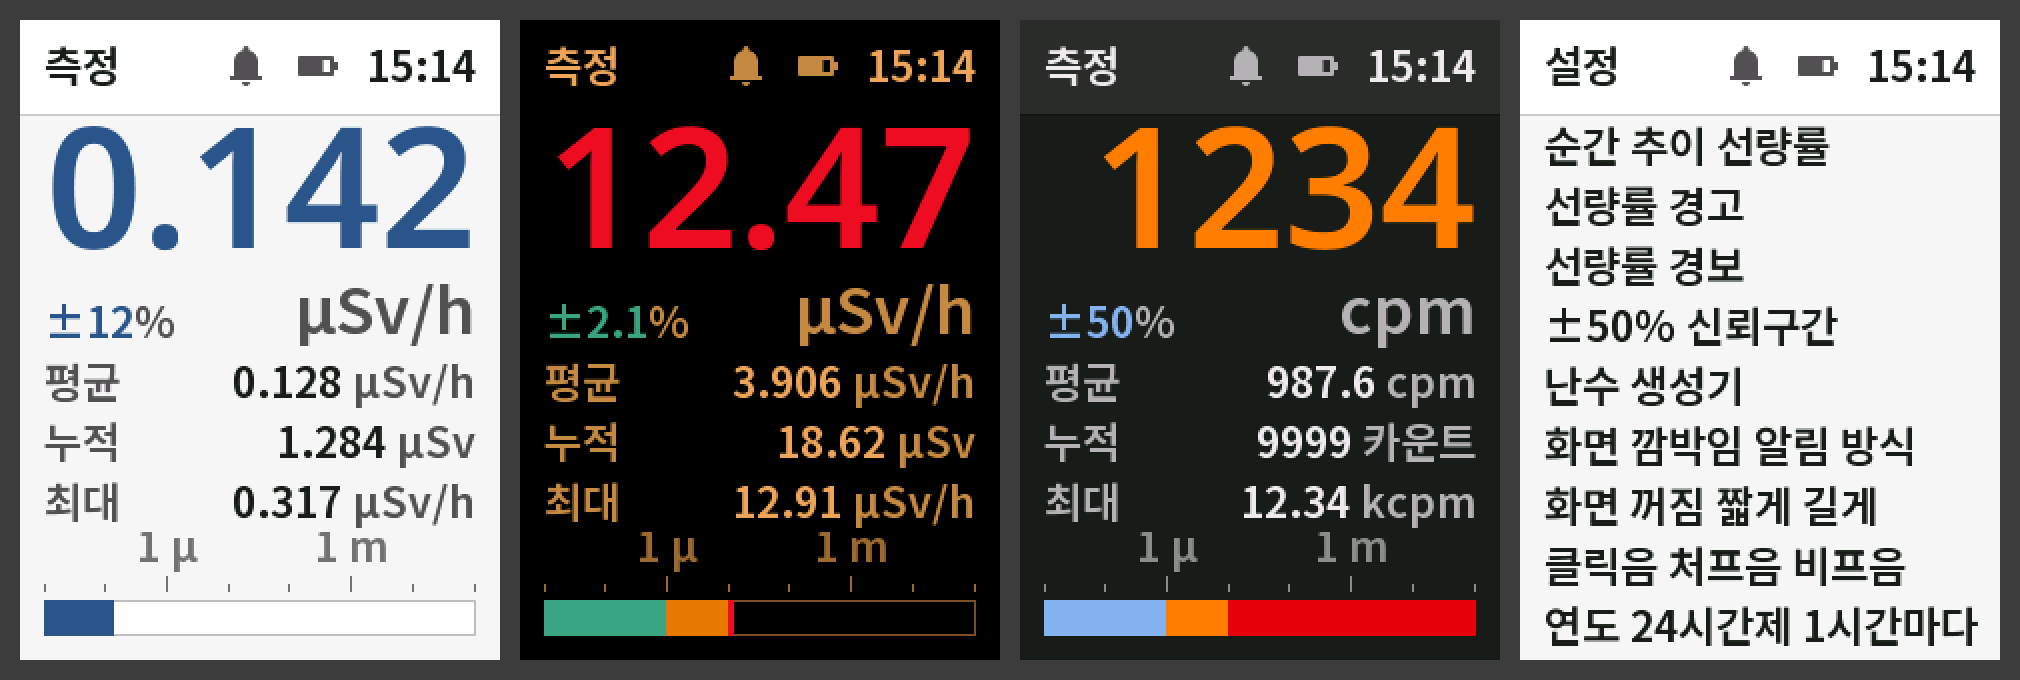
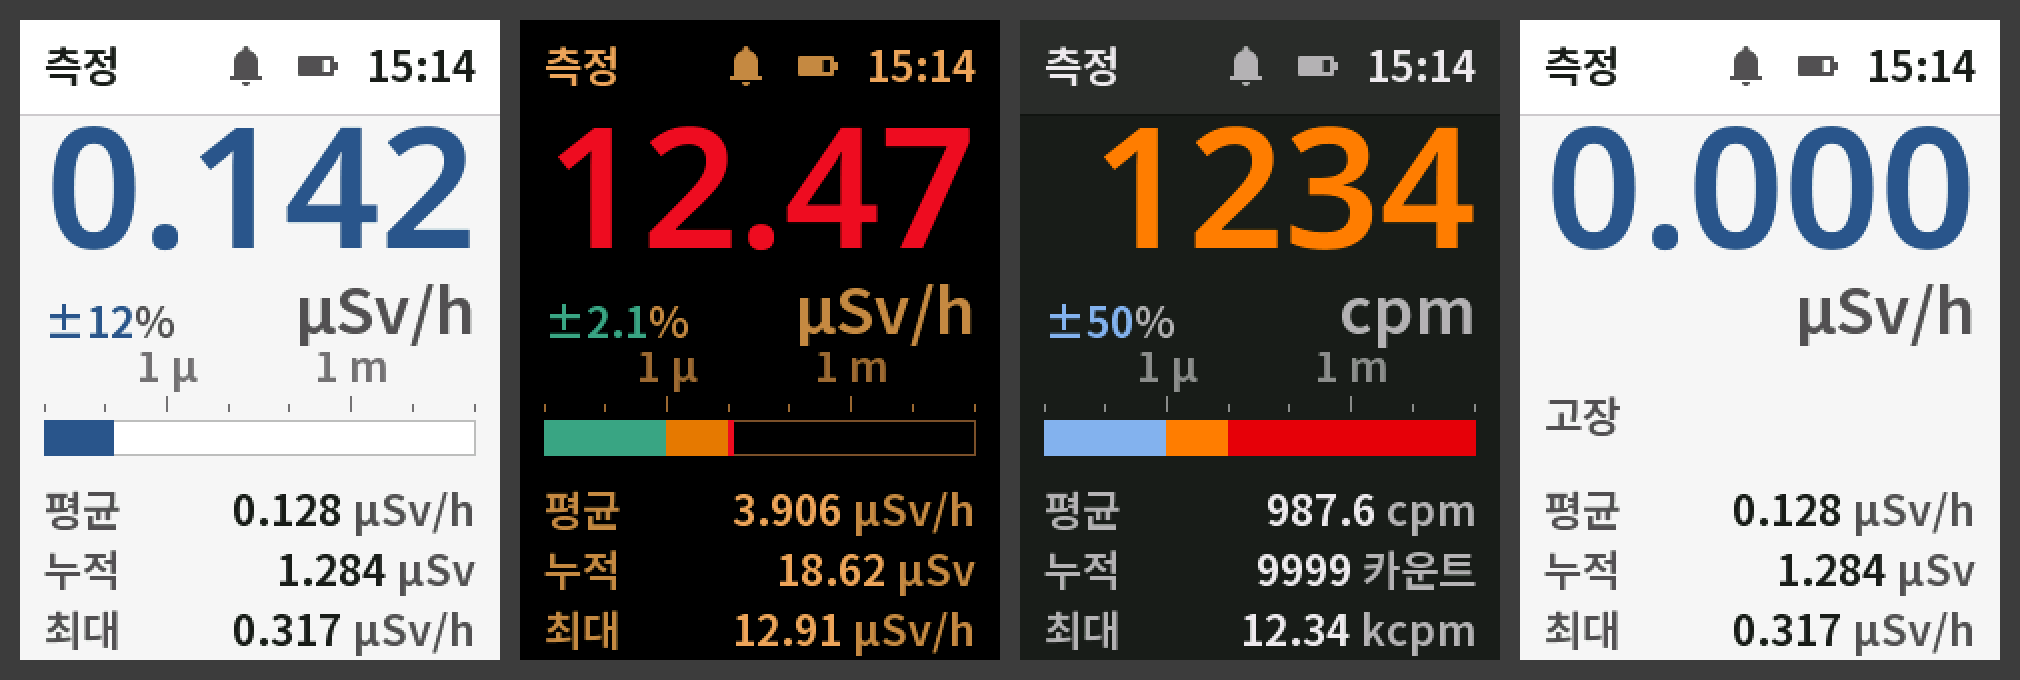
Move overview bar between unit line and info rows

Changed region(s): [[0.0, 0.1853, 0.998, 0.9574], [0.0, 0.525, 0.5926, 0.6794], [0.7485, 0.0618, 0.7797, 0.1235]]

diff --git a/platform.io/src/ui/measurements.c b/platform.io/src/ui/measurements.c
@@ -219,14 +219,12 @@ void drawMeasurementInfo(const char *keyString, const char *valueString, const c
 #define BAR_HEIGHT (CONTENT_BOTTOM - BAR_TOP)
 
 #define BAR_LABEL_LEFT BAR_LEFT
-#define BAR_LABEL_TOP BAR_TOP
 #define BAR_LABEL_WIDTH BAR_WIDTH
 #define BAR_LABEL_HEIGHT (BAR_HEIGHT - BAR_IMAGEBUFFER_HEIGHT)
 #define BAR_LABEL_OFFSETY (BAR_LABEL_HEIGHT - FONT_SMALL_LINE_HEIGHT)
 #define BAR_LABEL_CELL_HALFWIDTH ((3 * BAR_TICKS_WIDTH / BAR_DECADES) / 2)
 
 #define BAR_IMAGEBUFFER_LEFT BAR_LEFT
-#define BAR_IMAGEBUFFER_TOP (BAR_LABEL_TOP + BAR_LABEL_HEIGHT)
 #define BAR_IMAGEBUFFER_WIDTH BAR_WIDTH
 #define BAR_IMAGEBUFFER_HEIGHT (BAR_TICKS_HEIGHT + TICKS_SPACING + BAR_FRAME_HEIGHT + MEASUREMENT_PADDING_BOTTOM)
 
@@ -342,7 +340,7 @@ static int16_t getMeasurementBarX(float value, float offset)
     return BAR_FRAME_LEFT + x;
 }
 
-void drawMeasurementBar(float value, int32_t minExponent, float warningValue, float alarmValue)
+static void drawMeasurementBarAt(int16_t top, float value, int32_t minExponent, float warningValue, float alarmValue)
 {
     // Pre-calculations
     const LabelSpan *labelSpansTicks;
@@ -421,7 +419,7 @@ void drawMeasurementBar(float value, int32_t minExponent, float warningValue, fl
             labelOffset = textHalfWidth;
 
         drawCenteredText(buffer,
-                         &(mr_rectangle_t){labelX, BAR_LABEL_TOP, labelWidth, BAR_LABEL_HEIGHT},
+                         &(mr_rectangle_t){labelX, top, labelWidth, BAR_LABEL_HEIGHT},
                          &(mr_point_t){labelOffset, BAR_LABEL_OFFSETY});
 
         labelTicksIndex++;
@@ -463,19 +461,26 @@ void drawMeasurementBar(float value, int32_t minExponent, float warningValue, fl
             fillSpanIndex++;
         }
 
-        drawImage(&(mr_rectangle_t){BAR_IMAGEBUFFER_LEFT, BAR_IMAGEBUFFER_TOP + y, BAR_IMAGEBUFFER_WIDTH, 1}, line);
+        drawImage(&(mr_rectangle_t){BAR_IMAGEBUFFER_LEFT, top + BAR_LABEL_HEIGHT + y, BAR_IMAGEBUFFER_WIDTH, 1}, line);
     }
 
     return;
+}
+
+void drawMeasurementBar(float value, int32_t minExponent, float warningValue, float alarmValue)
+{
+    drawMeasurementBarAt(BAR_TOP, value, minExponent, warningValue, alarmValue);
 }
 
 #if defined(DISPLAY_240X320)
 
 #define OVERVIEW_ROW_NUM 3
 #define OVERVIEW_ROW_HEIGHT FONT_SMALL_LINE_HEIGHT
-#define OVERVIEW_ROWS_TOP (BAR_TOP - OVERVIEW_ROW_NUM * OVERVIEW_ROW_HEIGHT)
+#define OVERVIEW_ROWS_TOP (CONTENT_BOTTOM - OVERVIEW_ROW_NUM * OVERVIEW_ROW_HEIGHT)
 
-#define OVERVIEW_UNIT_TOP (OVERVIEW_ROWS_TOP - OVERVIEW_UNIT_HEIGHT)
+#define OVERVIEW_BAR_TOP (OVERVIEW_ROWS_TOP - BAR_HEIGHT)
+
+#define OVERVIEW_UNIT_TOP (OVERVIEW_BAR_TOP - OVERVIEW_UNIT_HEIGHT)
 #define OVERVIEW_UNIT_HEIGHT FONT_MEDIUM_LINE_HEIGHT
 #define OVERVIEW_UNIT_LEFT OVERVIEW_CONFIDENCE_WIDTH
 #define OVERVIEW_UNIT_WIDTH (CONTENT_WIDTH - OVERVIEW_UNIT_LEFT)
@@ -516,6 +521,20 @@ void drawMeasurementOverviewValue(const char *valueString, const char *unitStrin
                      &(mr_rectangle_t){CONTENT_LEFT, OVERVIEW_UNIT_TOP, OVERVIEW_CONFIDENCE_WIDTH, OVERVIEW_UNIT_HEIGHT},
                      &(mr_point_t){MEASUREMENT_PADDING_LEFT, OVERVIEW_CONFIDENCE_OFFSETY},
                      false);
+}
+
+void drawMeasurementOverviewBar(float value, int32_t minExponent, float warningValue, float alarmValue)
+{
+    drawMeasurementBarAt(OVERVIEW_BAR_TOP, value, minExponent, warningValue, alarmValue);
+}
+
+void drawMeasurementOverviewAlert(const char *alertString)
+{
+    setFont(font_small);
+    setStrokeColor(COLOR_ELEMENT_NEUTRAL);
+    drawText(alertString,
+             &(mr_rectangle_t){CONTENT_LEFT, OVERVIEW_BAR_TOP, CONTENT_WIDTH, BAR_HEIGHT},
+             &(mr_point_t){MEASUREMENT_PADDING_LEFT, (BAR_HEIGHT - FONT_SMALL_LINE_HEIGHT) / 2});
 }
 
 void drawMeasurementOverviewRow(uint32_t rowIndex, const char *keyString, const char *valueString, const char *unitString)

diff --git a/platform.io/src/measurements/instantaneous.c b/platform.io/src/measurements/instantaneous.c
@@ -270,15 +270,15 @@ static void drawInstantaneousRateTab(void)
     drawMeasurementInfo(keyString, valueString, unitString, getInstantaneousRateMeasurementStyle());
 }
 
-static void drawInstantaneousRateBar(void)
+static void drawInstantaneousRateBar(void (*drawBar)(float value, int32_t minExponent, float warningValue, float alarmValue))
 {
     float scale = pulseUnits[settings.doseUnits].rate.scale;
     float microSievertPerHourScale = scale / pulseUnits[DOSE_UNITS_SIEVERTS].rate.scale;
 
-    drawMeasurementBar(instantaneous.rate.value * scale,
-                       doseUnitsBarMinExponent[settings.doseUnits],
-                       rateAlerts[settings.rateWarning] * microSievertPerHourScale,
-                       rateAlerts[settings.rateAlarm] * microSievertPerHourScale);
+    drawBar(instantaneous.rate.value * scale,
+            doseUnitsBarMinExponent[settings.doseUnits],
+            rateAlerts[settings.rateWarning] * microSievertPerHourScale,
+            rateAlerts[settings.rateAlarm] * microSievertPerHourScale);
 }
 
 static void drawInstantaneousRateView(void)
@@ -286,7 +286,7 @@ static void drawInstantaneousRateView(void)
     drawInstantaneousRateValue();
 
     if (instantaneousTab == INSTANTANEOUS_TAB_BAR)
-        drawInstantaneousRateBar();
+        drawInstantaneousRateBar(drawMeasurementBar);
     else if (instantaneousTab != INSTANTANEOUS_TAB_ALERT)
         drawInstantaneousRateTab();
     else
@@ -357,14 +357,14 @@ static void drawOverviewView(void)
     drawTitleBar(getString(STRING_MEASUREMENTS));
     drawMeasurementOverviewValue(valueString, unitString, instantaneous.rate.confidence, getInstantaneousRateMeasurementStyle());
 
+    if (getTubeFaultAlertLevel())
+        drawMeasurementOverviewAlert(getString(STRING_ALERT_FAULT));
+    else
+        drawInstantaneousRateBar(drawMeasurementOverviewBar);
+
     drawOverviewRow(0, getString(STRING_AVERAGE), getAverageRate(), &units->rate);
     drawOverviewRow(1, getString(STRING_CUMULATIVE), getCumulativeDosePulseCount(), &units->dose);
     drawOverviewRow(2, getString(STRING_MAX), instantaneous.maxValue, &units->rate);
-
-    if (getTubeFaultAlertLevel())
-        drawMeasurementAlert(getString(STRING_ALERT_FAULT));
-    else
-        drawInstantaneousRateBar();
 }
 
 void onOverviewViewEvent(ViewEvent event)

diff --git a/docs/handoff/attachments/harness/harness.c b/docs/handoff/attachments/harness/harness.c
@@ -99,10 +99,13 @@ static void overview(const char *value, const char *unit, float confidence, Meas
             fb[y][x] = 0xf81f;
     drawTitleBar(getString(STRING_MEASUREMENTS));
     drawMeasurementOverviewValue(value, unit, confidence, style);
+    if (barValue < 0)
+        drawMeasurementOverviewAlert(getString(STRING_ALERT_FAULT));
+    else
+        drawMeasurementOverviewBar(barValue, -8, 1E-6F, 10E-6F);
     drawMeasurementOverviewRow(0, getString(STRING_AVERAGE), avg, avgUnit);
     drawMeasurementOverviewRow(1, getString(STRING_CUMULATIVE), dose, doseUnit);
     drawMeasurementOverviewRow(2, getString(STRING_MAX), max, maxUnit);
-    drawMeasurementBar(barValue, -8, 1E-6F, 10E-6F);
 }
 
 int main(void)
@@ -126,6 +129,10 @@ int main(void)
     save("overview-cpm.ppm");
 
     settings.displayTheme = DISPLAY_THEME_DAY;
+    overview("0.000", "\xc2\xb5Sv/h", 0, MEASUREMENTSTYLE_NORMAL,
+             "0.128", " \xc2\xb5Sv/h", "1.284", " \xc2\xb5Sv", "0.317", " \xc2\xb5Sv/h", -1);
+    save("overview-fault.ppm");
+
     static const char *const lines[] = {
         STRING_INSTANTANEOUS " " STRING_HISTORY " " STRING_RATE,
         STRING_RATE_WARNING, STRING_RATE_ALARM,

diff --git a/platform.io/src/ui/measurements.h b/platform.io/src/ui/measurements.h
@@ -26,6 +26,8 @@ void drawMeasurementInfo(const char *keyString, const char *valueString, const c
 void drawMeasurementBar(float value, int32_t minExponent, float warningValue, float alarmValue);
 #if defined(DISPLAY_240X320)
 void drawMeasurementOverviewValue(const char *valueString, const char *unitString, float confidence, MeasurementStyle style);
+void drawMeasurementOverviewBar(float value, int32_t minExponent, float warningValue, float alarmValue);
+void drawMeasurementOverviewAlert(const char *alertString);
 void drawMeasurementOverviewRow(uint32_t rowIndex, const char *keyString, const char *valueString, const char *unitString);
 #endif
 
